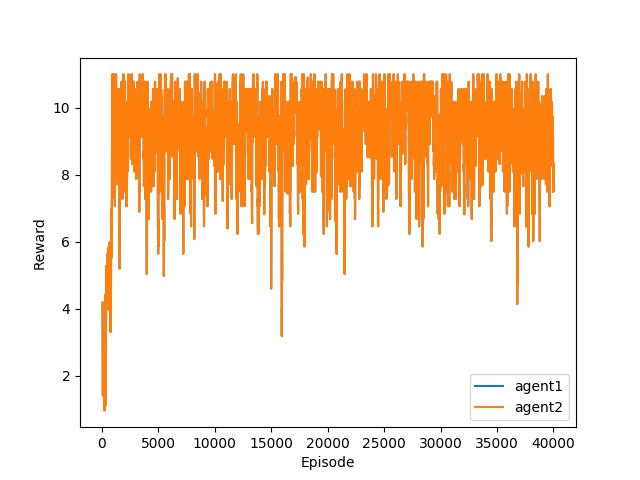
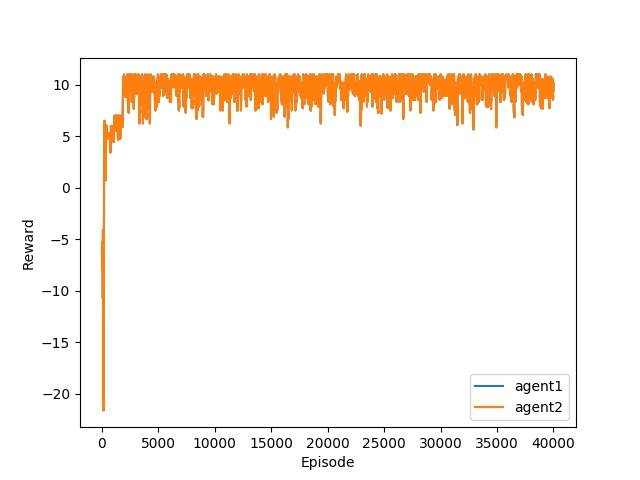
minor change

diff --git a/run.py b/run.py
@@ -9,8 +9,8 @@ if __name__ == '__main__':
     nb_episode = 40000
 
     actions = np.arange(3)
-    agent1 = DistributedQLearner(policy=EpsGreedyQPolicy(), actions=actions)
-    agent2 = DistributedQLearner(policy=EpsGreedyQPolicy(), actions=actions)
+    agent1 = DistributedQLearner(policy=EpsGreedyQPolicy(epsilon=.02), actions=actions)
+    agent2 = DistributedQLearner(policy=EpsGreedyQPolicy(epsilon=.02), actions=actions)
 
     game = MatrixGame()
     for episode in range(nb_episode):
